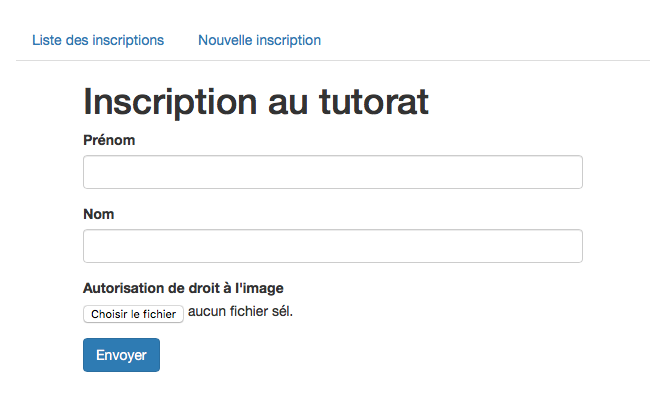
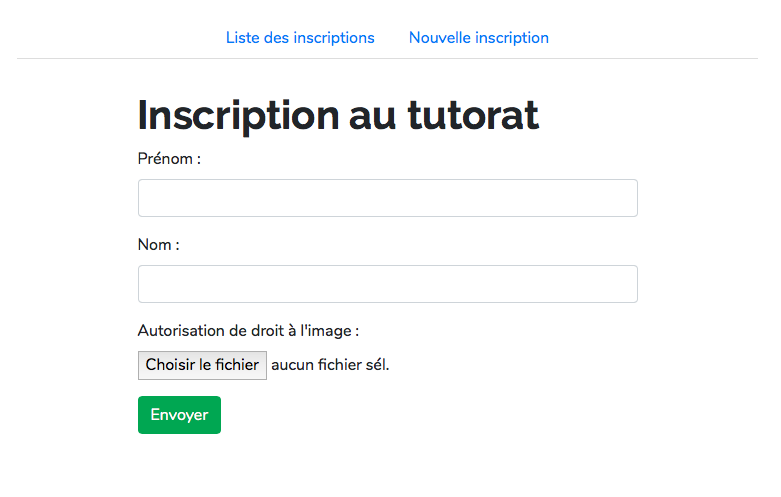
use Bootstrap4, update API, update README

diff --git a/uploadexample/upload/management/commands/clean_media.py b/uploadexample/upload/management/commands/clean_media.py
@@ -76,7 +76,7 @@ class Command(BaseCommand):
 
         if deletables:
             unused = len(deletables)
-            self.stdout.write('Detected unused media files:')
+            self.stdout.write('Unused media files were detected:')
             self.stdout.write('\n'.join(f_ for f_ in deletables))
 
             for file_ in deletables:
@@ -89,7 +89,7 @@ class Command(BaseCommand):
                     if not os.listdir(os.path.join(relative_root, dir_)):
                         os.rmdir(os.path.join(relative_root, dir_))
             self.stdout.write(
-                self.style.SUCCESS('Deleted {} unused media file(s).'
+                self.style.SUCCESS('Removed {} unused media file(s).'
                                    .format(unused)))
         else:
             self.stdout.write(self.style.SUCCESS(

diff --git a/uploadexample/api/serializers.py b/uploadexample/api/serializers.py
@@ -1,6 +1,5 @@
 from rest_framework import serializers
 from upload.models import StudentRegistration
-from .validators import FileValidator
 
 
 class StudentRegistrationSerializer(serializers.ModelSerializer):
@@ -10,11 +9,6 @@ class StudentRegistrationSerializer(serializers.ModelSerializer):
         fields = ('id', 'first_name', 'last_name', 'image_agreement',
                   'submission_date',)
         extra_kwargs = {
-            'image_agreement': {
-                'validators': [
-                    FileValidator(allowed_mimetypes=('application/pdf',)),
-                ],
-            },
             'submission_date': {
                 'format': '%Y-%m-%d',
             }

diff --git a/uploadexample/uploadexample/settings.py b/uploadexample/uploadexample/settings.py
@@ -26,7 +26,7 @@ SECRET_KEY = '!m(&*&!b(i7@!8gxg-7f*!&j9&s!3d=*)l^q-1-1$b7__c0g67'
 # SECURITY WARNING: don't run with debug turned on in production!
 DEBUG = True
 
-ALLOWED_HOSTS = []
+ALLOWED_HOSTS = ['68556d9b.ngrok.io', 'localhost']
 
 
 MESSAGE_TAGS = {

diff --git a/README.md b/README.md
@@ -10,6 +10,8 @@ Il s'agit d'une petite application CRD (Create, Read, Delete) autour d'un modèl
 
 Ce dernier champ est un champ de fichier où l'utilisateur doit fournir un fichier PDF. Pour tester l'application, on pourra utiliser `sample-data/doej.pdf`.
 
+On peut consulter la liste des dossiers, supprimer un dossier existant ou ajouter un nouveau dossier.
+
 ![](docsmedia/home.png)
 ![](docsmedia/form.png)
 
@@ -34,7 +36,17 @@ $ python manage.py migrate
 $ python manage.py runserver
 ```
 
-Le site sera accessible à l'adresse `http://localhost:8000`.
+Le site sera accessible à l'adresse `http://localhost:8000/`.
+
+### API
+
+Au cas où on voudrait utiliser cette app avec un frontend JS, une petite API REST a été implémentée à l'aide du Django REST Framework.
+
+Les ressources utiles sont dispos sur le serveur Django :
+
+- Browsable API : `http://localhost:8000/api/`
+- Documentation : `http://localhost:8000/api/docs/`
+
 
 ## Notes d'implémentation
 
@@ -56,7 +68,7 @@ Lorsqu'un fichier est uploadé via un formulaire, Django le placera dans le doss
 
 #### Service des médias en développement
 
-Dans un contexte de développement, on peut se permettre de servir les fichiers de médias et les fichiers statiques par Django. **Cette approche n'est pas efficace en production** : la solution à employer et alors de passer par un serveur web dédié aux fichiers statiques et aux médias, tel que nginx.
+Dans un contexte de développement, on peut se permettre de servir les fichiers de médias et les fichiers statiques par Django.
 
 ```python
 # uploadexample/urls.py
@@ -67,6 +79,8 @@ if settings.DEBUG:
     urlpatterns += static(settings.STATIC_URL,
                           document_root=settings.STATIC_ROOT)
 ```
+
+> **Cette approche n'est pas efficace en production** : la solution à employer et alors de passer par un serveur web dédié aux fichiers statiques et aux médias, tel que nginx.
 
 #### Écriture du modèle
 
@@ -81,11 +95,9 @@ class StudentRegistration(models.Model):
 	...
 ```
 
-Le *serializer* est tout-à-fait classique et est défini dans `upload/serializers.py`.
-
 #### Côté front
 
-La gestion du formulaire côté frontend est ici assurée par le Django REST Framework (rendu d'un *serializer* comme un formulaire). Ce n'est pas une nécessité et le front pourrait tout aussi bien se faire en JS (même si cet exemple ne dispose pas d'une API REST et serait donc à adapter).
+La gestion du formulaire côté frontend est ici assurée par le système de vues et de templates inclus Django (et ne passe pas par l'API).
 
 Les templates utilisés sont dans le dossier `upload/templates`. La chose la plus importante à noter concerne le `<form>` de création d'un nouveau dossier d'inscription : il doit définir `enctype="multipart/form-data` pour permettre la transmission de fichiers via la requête HTTP POST.
 
@@ -103,33 +115,35 @@ Django stocke les fichiers sur le serveur et expose l'URL du fichier via l'attri
 <a href="{{ registration.image_agreement.url }}">Droit à l'image</a>
 ```
 
-Dans le cas d'un frontend Javascript, il est tout-à-fait envisageable de fournir l'URL directement dans le JSON d'une requête de type `GET /api/registrations/`. Libre au front d'utiliser cette URL comme bon lui semble : lien vers le fichier ou affichage direct dans la page... La réponse JSON ressemblera typiquement à:
+L'API REST expose l'URL dans la réponse JSON. Un frontend JS pourrait alors utiliser cette URL pour, par exemple, l'associer à un lien ou afficher le PDF directement sur la page. La réponse JSON associée à `GET /registrations/` ressemble typiquement à :
 
 ```json
 [
-	{
-		"first_name": "John",
-		"last_name": "Doe",
-		"url": "http://localhost:8000/media/doej.pdf"
-	},
-	"..."
+    {
+        "id": 65,
+        "first_name": "John",
+        "last_name": "Doe",
+        "image_agreement": "http://localhost:8000/media/doej.pdf",
+        "submission_date": "2018-02-10"
+    },
+    ...
 ]
 ```
 
-## Gestion des fichiers inutilisés
+### Gestion des fichiers inutilisés
 
-Lorsqu'un modèle ayant un ou plusieurs champs `FileField` est supprimé, les fichiers correspondants ne sont pas supprimés du serveur, et deviennent inutilisés (c'est un choix délibéré du framework).
+Lorsqu'un modèle ayant un ou plusieurs champs `FileField` est supprimé, les fichiers correspondants deviennent "orphelins", c'est-à-dire qu'ils n'ont plus de références dans les modèles mais restent physiquement sur le serveur. Django choisit délibérément de ne pas supprimer automatiquement le fichier physique associé.
 
-On doit alors supprimer manuellement ou par une tâche périodique (job Cron) les fichiers inutilisés. Une commande de gestion a été définie dans cet exemple (définie dans `upload/management/commands/clean_media.py`) et s'utilise comme suit :
+On doit alors supprimer manuellement ou par une tâche périodique (job Cron) les fichiers inutilisés. Une commande de gestion a été définie dans cet exemple (voir `upload/management/commands/clean_media.py`) et s'utilise comme suit :
 
 ```sh
 $ python manage.py clean_media
 # Si des médias inutilisés sont détectés :
-Detected unused media files:
-	doej.pdf
-Deleted 1 unused media file(s).
+Unused media files were detected:
+doej.pdf
+Removed 1 unused media file(s).
 # Sinon :
 No unusued media files detected.
 ```
 
-Cette commande n'est pas spécifique à cette application et se contente de **supprimer tous les fichiers qui ne sont référencés par aucun modèle de la DB**.
+Cette commande n'est pas spécifique à cette application et se contente de **supprimer tous les fichiers qui ne sont référencés par aucun modèle de la DB**. On pourrait la réutiliser dans une autre application.
